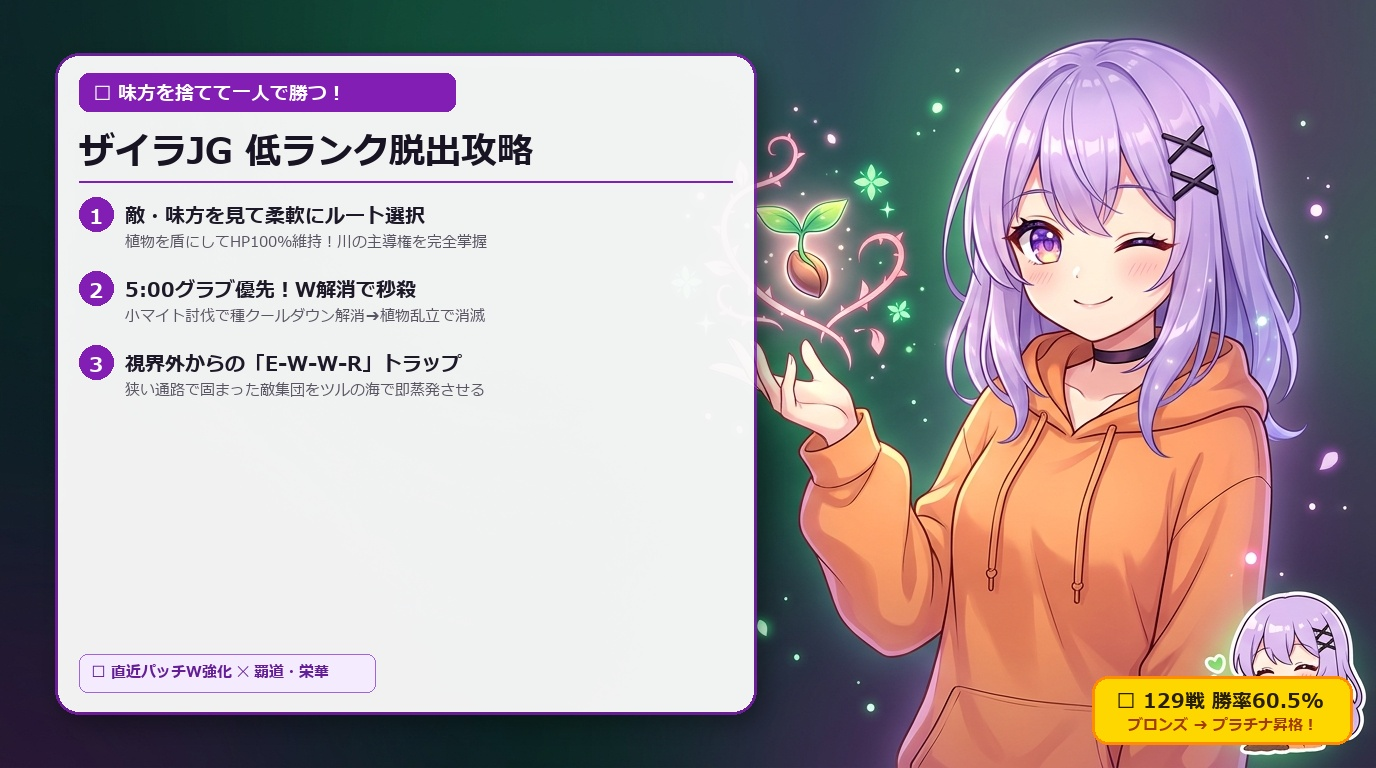
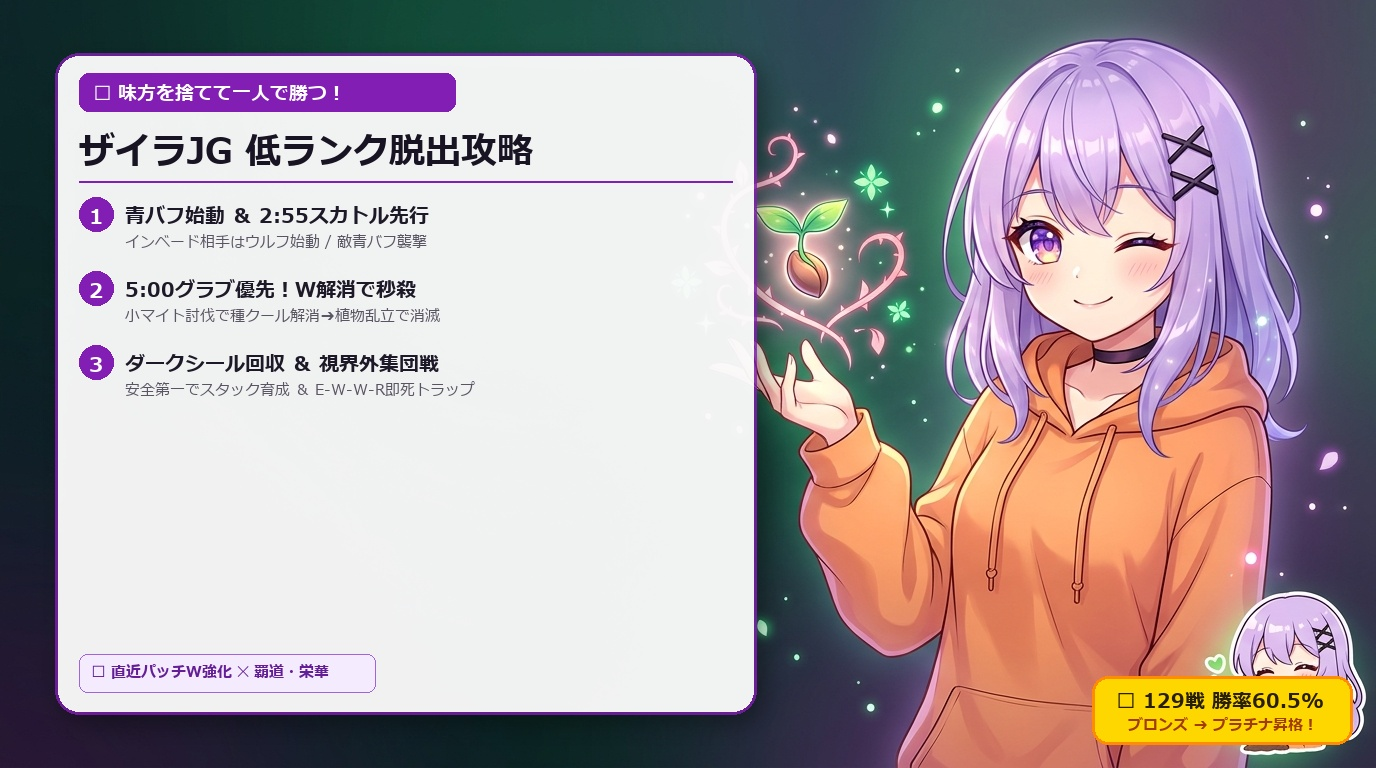
feat(note): ザイラJG記事に青バフフルクリア・インベード対策・2:55スカトル・敵青襲撃・ダークシール安全第一マインドを反映

Changed region(s): [[0.0938, 0.4062, 0.3438, 0.5312], [0.0938, 0.25, 0.3438, 0.3438]]

diff --git a/02_FACTORY/01_DRAFTS/note/assets/compose_cute_thumbnails.py b/02_FACTORY/01_DRAFTS/note/assets/compose_cute_thumbnails.py
@@ -51,9 +51,9 @@ def build_zyra():
 
     # 3箇条（実戦仕様に刷新）
     items = [
-        ("1", "敵・味方を見て柔軟にルート選択", "植物を盾にしてHP100%維持！川の主導権を完全掌握"),
-        ("2", "5:00グラブ優先！W解消で秒殺", "小マイト討伐で種クールダウン解消➔植物乱立で消滅"),
-        ("3", "視界外からの「E-W-W-R」トラップ", "狭い通路で固まった敵集団をツルの海で即蒸発させる")
+        ("1", "青バフ始動 ＆ 2:55スカトル先行", "インベード相手はウルフ始動 / 敵青バフ襲撃"),
+        ("2", "5:00グラブ優先！W解消で秒殺", "小マイト討伐で種クール解消➔植物乱立で消滅"),
+        ("3", "ダークシール回収 ＆ 視界外集団戦", "安全第一でスタック育成 ＆ E-W-W-R即死トラップ")
     ]
     curr_y = card_y0 + 144
     for num, title, sub in items:

diff --git a/02_FACTORY/01_DRAFTS/note/zyra_jg_guide.md b/02_FACTORY/01_DRAFTS/note/zyra_jg_guide.md
@@ -87,28 +87,32 @@ tags: ["#LoL", "#LeagueofLegends", "#ジャングル", "#JG", "#ゲーム攻略"
 
 ---
 
-## 2. 状況で選ぶ「初動クリア」とテンポの作り方
+## 2. 実戦で勝ち越す「初動ルート」とインベード対策
 
-ネットの攻略記事には「〇分〇秒にどこそこのキャンプを狩る」といった固定ルートがよく書かれていますが、実際のソロキューでそんな机上の空論は通用しません。
+ネットの攻略記事には「決まったキャンプを順番に狩るだけ」のテンプレが溢れていますが、実戦のソロキューは相手の妨害との戦いです。僕が129戦で確立したリアルな初動戦略を公開します。
 
-僕が129戦で徹底していたのは、**「味方レーナーの相性と、相手ジャングラーを見てスタート位置を柔軟に変えること」**です。
+### 基本は「ブルーバフ側」からのフルクリア
+ザイラのジャングル周回は、**基本的に「ブルーバフ（青側）スタート」からのフルクリア**を本線とします。
+青バフのスキルヘイストとマナ自動回復を得ることで、QとWの回転が上がり、植物を次々と咲かせて最速テンポで森を回れるからです。
 
-### 敵と味方を見て「赤スタート」か「青スタート」かを決める
-- **味方のレーンを見る**: 
-  - どちらのレーンが序盤強くてプッシュできるか（主導権があるか）。
-  - 逆にどちらがガンクを受けやすいか、または自分がガンクを刺しやすいか。
-- **相手ジャングラーを見る**:
-  - 序盤からインベードしてくる好戦的な相手（シン・ジャオ、リー・シン、ワーウィック等）なのか、ファーム重視なのか。
-  - 相手と川のスカトル（3分30秒湧き）で鉢合わせたくない場合は、相手と逆側のバフからスタートして反対側の川へ抜けるルートを選びます。
+### 敵がインベード系（シャコ・ケイン・グレイブス・リー・シン）の時の対抗策
+しかし、低ランク帯で最も厄介なのは、レベル1〜2でこちらの青バフに突っ込んでくる好戦的な敵ジャングラーです。
+相手が**シャコ、ケイン、グレイブス、リー・シン**といったインベード常習犯の場合、無防備に青バフから触ると簡単にファーストブラッドを献上してしまいます。
 
-### キャンプ処理の基本：植物を壁にしてHPを満タンに保つ
-どちらからスタートする場合でも、ザイラの強みは**「中立モンスターの攻撃を植物に受けさせ、自分はHP100%を維持して森を回れること」**です。
+この時、僕は以下の2つの対抗策を使い分けます。
 
-1. キャンプに近づき、種に向けてQを撃って植物を咲かせる。
-2. モンスターの攻撃を植物に浴びせながら、自分は安全な距離からスキルと通常攻撃を回す。
-3. モンスターが死ぬ直前に次のキャンプへ歩き出し、残りのミリHPは植物の攻撃で削り切らせる（歩き狩り）。
+1. **「ウルフスタート」で敵の裏をかく**:
+   - 最初から青バフに触らず、ウルフ（狼）からスタートします。
+   - 相手が青バフを奪いに侵入してきた瞬間に、狩りかけの青バフへスマイト勝負を仕掛けて奪い返すか、植物を挟んで安全に対処します。
+2. **「相手ジャングルへ逆インベード」する**:
+   - 相手がこちらの青バフに入ってくる動きを察知したら、無理に守ろうとせず、味方にピンを出しながら**相手の逆サイドジャングル（相手の青バフや赤バフ）へ直行して奪い尽くす**。
+   - 殴り合いを完全に拒否し、相手が得るはずだったリソースを帳消しにします。
 
-この基本を徹底すれば、3分30秒のスカトル湧きやレーンへの介入タイミングに、**体力満タン・スキル全快**で川へ出ることができます。
+### スカトル湧き（2分55秒）への先着 ＆「敵の青バフ襲撃」
+植物を壁にしてHP100%を維持しながらフルクリアを極めると、**スカトルが湧く2分55秒に対して大幅に余裕を持って川へアクセス**できます。
+
+もし想定以上にファームが早く終わったり、敵ジャングラーが反対側のレーンに見えた場合は、スカトルを秒殺した勢いのまま**「相手の青バフ（敵ジャングル）を襲いに行く」**という強烈なアクションを仕掛けます。
+敵が自分の森に戻ってきた頃には中立が消滅しており、序盤のレベル差とゴールド差を決定づけることができます。
 
 ---
 
@@ -174,6 +178,21 @@ Rの範囲内にいる植物は巨大化し、攻撃速度が150%上昇して狂
 
 相手があなたをキルするために足を止めたその場所で、植物とノックアップの集中砲火を浴びせるのです。ゾーニャの砂時計があれば、コンボを放った直後に砂時計を使用します。相手は無敵のあなたを前に立ち尽くし、巨大化した植物に殴り倒されて返り討ちになります。
 
+### 【超重要マインド】信用できない味方のファイトには「安全第一」でゴールドを拾う
+
+低ランクの試合で最も多い負けパターンは、「味方が勝手に無謀な戦いを始め、助けに行こうとして自分まで巻き込まれてデスすること」です。
+
+ザイラJGをプレイする上で、心に深く刻んでほしい鉄則があります。
+
+**「信用できない味方がファイトを起こした時は、ゴールドの回収（キルやアシスト）を目指しつつ、徹底して『安全第一』にアクションすること」**です。
+
+なぜなら、後述するようにザイラは**「ダークシール（Dark Seal）」や「メジャイ・ソウルスティーラー」のスタックが何よりも命**だからです。
+
+味方が無理に突っ込んで死にそうなら、無理に前に出て身体を張ってはいけません。
+最大射程からEや植物を投げ込み、敵の足止めをして味方が逃げる隙を作るか、瀕死の敵を植物で刈り取ってゴールドとスタックを回収する。ダメそうなら背中を向けて即座に離脱する。
+
+「味方を助けるために死ぬ」のは絶対にNGです。あなたが死なずにダークシールのスタックを25まで育て上げることこそが、その試合を一人でキャリーする唯一の道です。
+
 ---
 
 ## 5. 低ランク頻出JGとの対面別攻略マニュアル
@@ -219,6 +238,8 @@ Rの範囲内にいる植物は巨大化し、攻撃速度が150%上昇して狂
 
 ### ビルドパス：初手ライアンドリー ➔ 2手目以降は相手に合わせて柔軟に変える
 
+- **序盤の最強投資：ダークシール（Dark Seal）**
+  - 初回リコール時、350ゴールドが余っていたら真っ先に買います。死なずに遠距離からアシストやキルを拾えるザイラにとって、魔力（AP）が勝手に跳ね上がる最高のアイテムです。スタックが10溜まったら「メジャイ・ソウルスティーラー」へ進化させて一気にゲームを破壊します。
 - **1手目：ライアンドリーの苦悶（100%固定）**
   - 中立モンスターの狩り速度、敵前衛の溶け方が劇的に変わる絶対のコアです。靴はソーサラーシューズを合わせます。
 - **2手目以降：相手チームの構成を見て選ぶ**
@@ -253,11 +274,11 @@ Rの範囲内にいる植物は巨大化し、攻撃速度が150%上昇して狂
 
 茂みの索敵は、**Wの種を放り投げるか、Qを撃って咲かせた植物に索敵させる**のが鉄則です。Eは敵の姿を捉え、確実に当たる瞬間か、飛び込まれた時のカウンター用として最後まで手元に残してください。
 
-### やらかし③：味方のガンク要請に釣られてファームを捨てる
-レーンで負けている味方ほど、「ガンクに来てくれ！」と猛烈にピンを鳴らしてきます。これに釣られて自分のジャングルキャンプを残したままレーンに向かうのは絶対にやめてください。
+### やらかし③：味方の無謀なファイトに付き合って「ダークシール」を溶かす
+レーンで負けている味方が無理に突っ込み、助けに行こうとして自分まで巻き込まれてデスする……これが低ランクで最も罪深い負け筋です。
 
-低ランクの負けているレーンにガンクに行っても、味方が合わせられずにカウンターガンクを食らってダブルキルを渡すのが関の山です。
-味方のピンはミュートし、**自分のキャンプをすべて狩り尽くしてレベル先行すること**を最優先してください。あなたがレベルとアイテムで敵JGを引き離し、ヴォイドグラブを一人で集めて中盤の集団戦を破壊すれば、試合は勝手に勝ちます。
+せっかく育てたダークシールやメジャイのスタックがリセットされ、あなたのキャリー力が一瞬で失われます。
+味方が無謀なファイトを始めたら、**「最大射程からゴールド（キル・アシスト）を回収するだけにして、危なくなったら即座に引く」**。味方に付き合って一緒に死ぬくらいなら、見捨ててファームに戻る冷徹さを持ってください。
 
 ---
 
@@ -267,12 +288,12 @@ Rの範囲内にいる植物は巨大化し、攻撃速度が150%上昇して狂
 
 - [ ] **ルーン**: メイン覇道（早く畳むなら電撃 / 集団戦スケーリングなら魂の収穫、追い打ち、執拗な賞金首狩り）＋ サブ栄華（レジェンド:ヘイスト、切り崩し）
 - [ ] **スキル上げ**: Lv1:Q ➔ Lv2:W ➔ Lv3:E（Q上げ優先）
-- [ ] **初動ルート**: 味方のレーン主導権と敵JGを見てスタート位置を決定（HP100%で3:30スカトルへ）
+- [ ] **初動ルート**: 基本は青バフ側フルクリア。インベード系（シャコ/ケイン/グレイブス/リーシン）相手はウルフスタートまたは逆インベード
+- [ ] **2:55スカトル**: スカトル湧きに余裕で先行！早く終われば「相手青バフ襲撃」を狙う
 - [ ] **5:00グラブ優先**: 小さいマイトを倒してWのクールダウンを解消 ➔ 植物を乱立させて秒殺
 - [ ] **ドラゴンの掟**: 1人で無茶はしない。狩る時はザイラ本体が前に立ってタゲを引き、植物を守る
-- [ ] **装備パス**: 1手目「ライアンドリーの苦悶」固定 ➔ 2手目以降は敵の構成に合わせて選択
-- [ ] **集団戦**: 正面から姿を見せず、壁越し・茂みから「E ➔ W ➔ W ➔ R」を叩き込む
-- [ ] **自衛**: 飛び込まれたら背中を向けず、自分の真下にスキルを撃ち込んで砂時計
+- [ ] **装備パス**: 序盤ダークシール ➔ 1手目「ライアンドリーの苦悶」固定 ➔ 2手目以降は敵の構成に合わせて選択
+- [ ] **集団戦・ファイト**: 信用できない味方に付き合って死なない！安全第一でゴールドとダークシールのスタックを回収する
 
 味方のプレイに一喜一憂する時間は、もう終わりです。
 

diff --git a/02_FACTORY/DAILY_LOG.md b/02_FACTORY/DAILY_LOG.md
@@ -1,5 +1,37 @@
 ## 📅 2026-10-31（土）
 
+### 🌲 ザイラJG記事の極限深化（青バフフルクリア・インベード対抗ウルフ始動・2:55スカトル先行・敵青襲撃・ダークシール最重要マインド）
+
+**概要**:
+1. **背景と課題**:
+   - ユーザーからの追加詳細知見:「ルート上ブルーバフ側からフルクリアを行いたいけどあいてがインベードしてきがちなキャラ(シャコ、ケイン、グレイブス、リーシンなど)の場合ウルフスタートしてスマイト勝負したり、相手ジャングルにインベードする。スカトルは2:55に湧くからね。早めにファーム終わったら相手の青バフを襲いに行く場合もある。あと心持ちとしては信用出来ない味方がファイトを起こした際はゴールドの回収を目指しつつ安全第一にアクションをすること。(ダークシールやメジャイのスタックが重要)」。
+2. **実施内容**:
+   - **【初動ルート ＆ インベード対抗戦術の深化】(`zyra_jg_guide.md`)**:
+     - 基本は「青バフ側フルクリア」。インベード常習犯（シャコ、ケイン、グレイブス、リー・シン）相手には「ウルフスタートによるスマイト勝負/植物対応」または「相手逆サイドジャングルへの逆インベード」で完全拒絶する戦術を明記。
+     - スカトル湧き（2:55）への先行、およびファーム先行時の「相手青バフ襲撃」の強気アクションを記述。
+   - **【最重要マインド：ダークシール/メジャイのスタック命】**:
+     - 第4章に「信用できない味方のファイトには安全第一でゴールドを拾う」セクションを新設。味方の無茶に巻き込まれて死なず、最大射程からキル・アシストを拾ってダークシールを育てる冷徹なソロキューキャリーマインドを言語化。
+     - 第6章のビルドにも「初回リコール時のダークシール最優先購入」、第7章のやらかしにも「味方の無理なファイトに付き合ってスタックを失う罪」を反映。
+   - **【サムネイル ＆ チートシート同期】**:
+     - `zyra_jg_thumb.jpg` の文字を「青バフ始動＆2:55スカトル先行」「ダークシール回収＆視界外集団戦」へ更新。
+3. **機械的実値検証**:
+   - サムネイル再生成: **zyra_jg_thumb.jpg 正常出力 PASS**
+   - noteドラフトコンパイル: **4件コンパイル完了 PASS (`compile_note_drafts.mjs`)**
+   - TypeScript 型チェック: **0 errors PASS (`npx tsc --noEmit`)**
+
+**再利用可能な3行ナレッジ**:
+- APジャングラーのソロキューキャリーにおいて、「ダークシール/メジャイのスタック維持」は命綱であり、「味方の無茶なファイトには付き合わず、安全圏からキル・アシスト（ゴールドとスタック）だけを回収して離脱する」という冷徹な安全第一マインドが勝率6割超えの真理。
+- インベード強者（シャコ・ケイン等）に対する「ウルフ始動」や「逆インベード」といった柔軟なルートずらしは、低ランク特有の理不尽な序盤崩壊を構造的に無力化する。
+- 記事のチートシートとサムネイルは、常にこの「リアルな実戦動線（2:55スカトル先行・敵青襲撃・ダークシール）」と完全同期させることで、読者が試合直前に即座に活用できる実用性を担保できる。
+
+- `[要検証]`: note公開後のダークシール運用に対する読者からの共感度
+- `[継続ウォッチ]`: 2:55スカトル先行時の敵青バフ侵入成功率
+- `[発信候補]`: 「味方を見捨てて正解！ザイラJGがダークシール25スタックで一人で試合を壊す冷徹マクロ」
+
+---
+
+## 📅 2026-10-31（土）
+
 ### 🌲 ザイラJG攻略記事の真実全面改訂（敵味方柔軟ルート・W解消グラブ秒殺・ドラゴン本体受け・ヴィエゴ表記・ビルド可変）
 
 **概要**:
